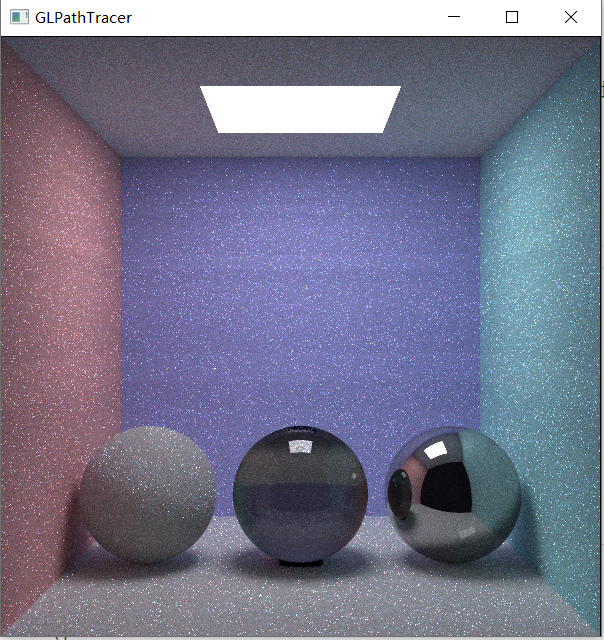
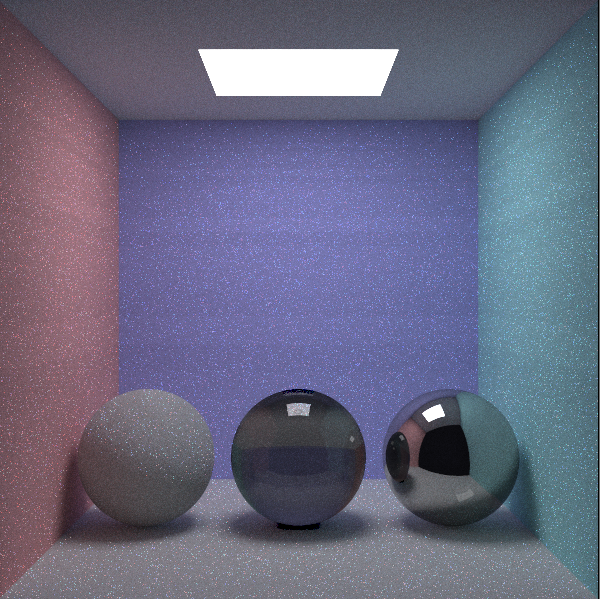
feat:tonemap

Changed region(s): [[0.0, 0.0, 1.0, 1.0], [0.15, 0.8414, 0.18, 0.8715]]

diff --git a/readme.md b/readme.md
@@ -1,5 +1,5 @@
 ## 介绍
-使用glsl实现简单的管线追踪。
+使用glsl实现简单的光线追踪。
 
 ## 特征
 * 散射，镜面反射，折射
